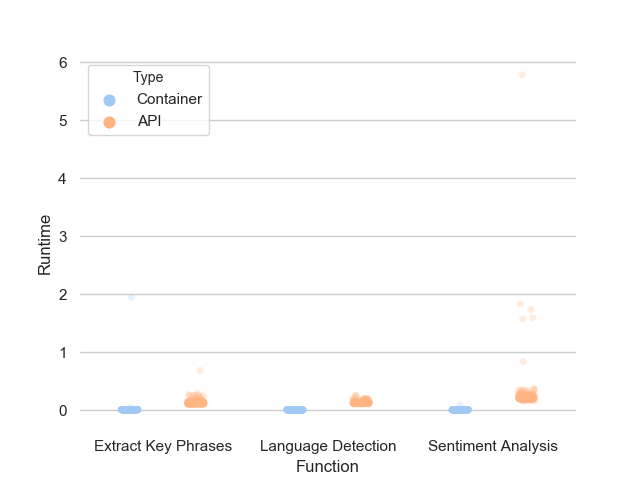
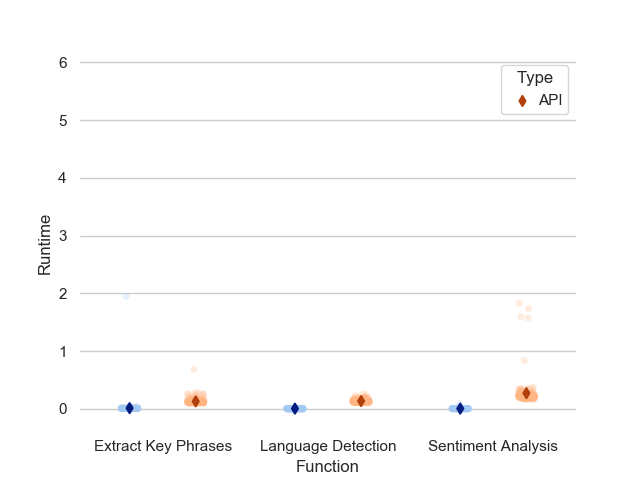
fix: add average to stripplot

diff --git a/metrics/text_analytics_plot.py b/metrics/text_analytics_plot.py
@@ -112,6 +112,20 @@ def generate_plots():
 	sns.stripplot(x="Function", y="Runtime", hue="Type",
 	              data=df, dodge=True, jitter=True,
 	              alpha=.25, zorder=1)
+
+
+	# Show the conditional means
+	sns.pointplot(x="Function", y="Runtime", hue="Type",
+	              data=df, dodge=.4, join=False, palette="dark",
+	              markers="d", scale=.75, ci=None)
+
+	# Improve the legend 
+	handles, labels = ax.get_legend_handles_labels()
+	ax.legend(handles[3:], labels[3:], title="Type",
+	          handletextpad=0, columnspacing=1,
+	          loc="upper right", ncol=3, frameon=True)
+
+
 	fig.tight_layout()
 	plt.savefig(imgs_directory + "/text_analytics_"+location.lower()+"_stripplot.png")
 
